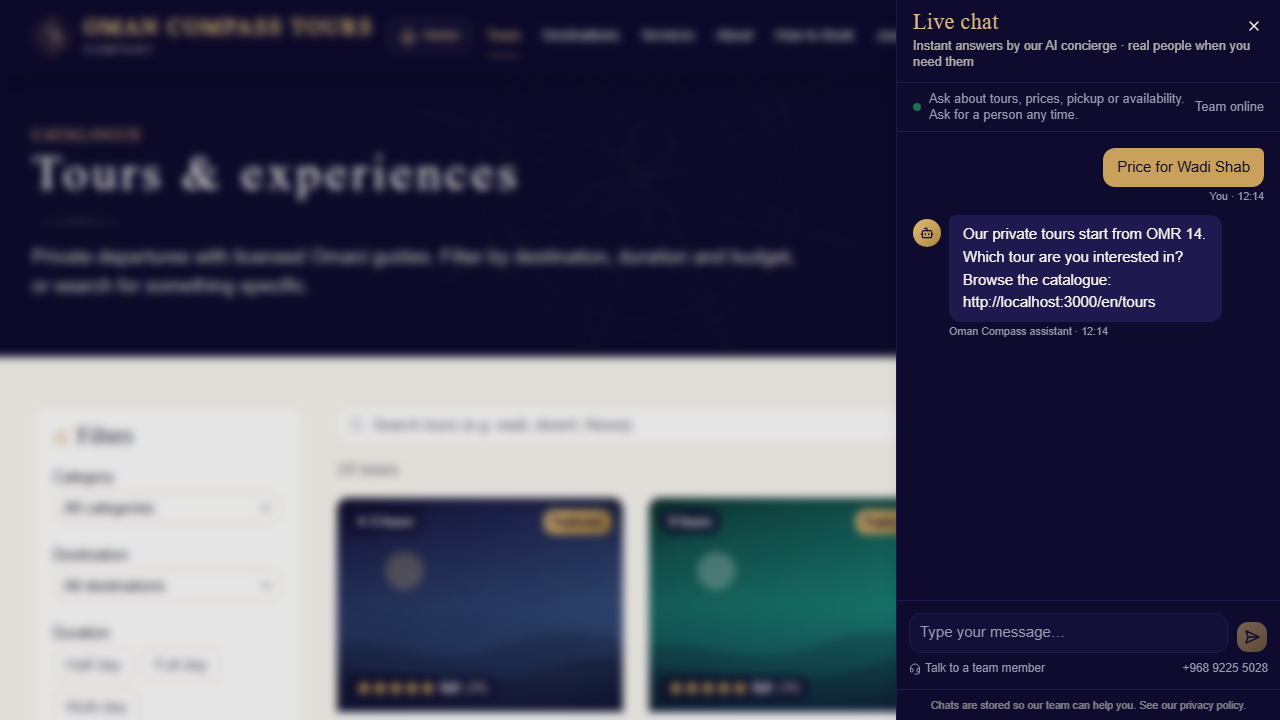
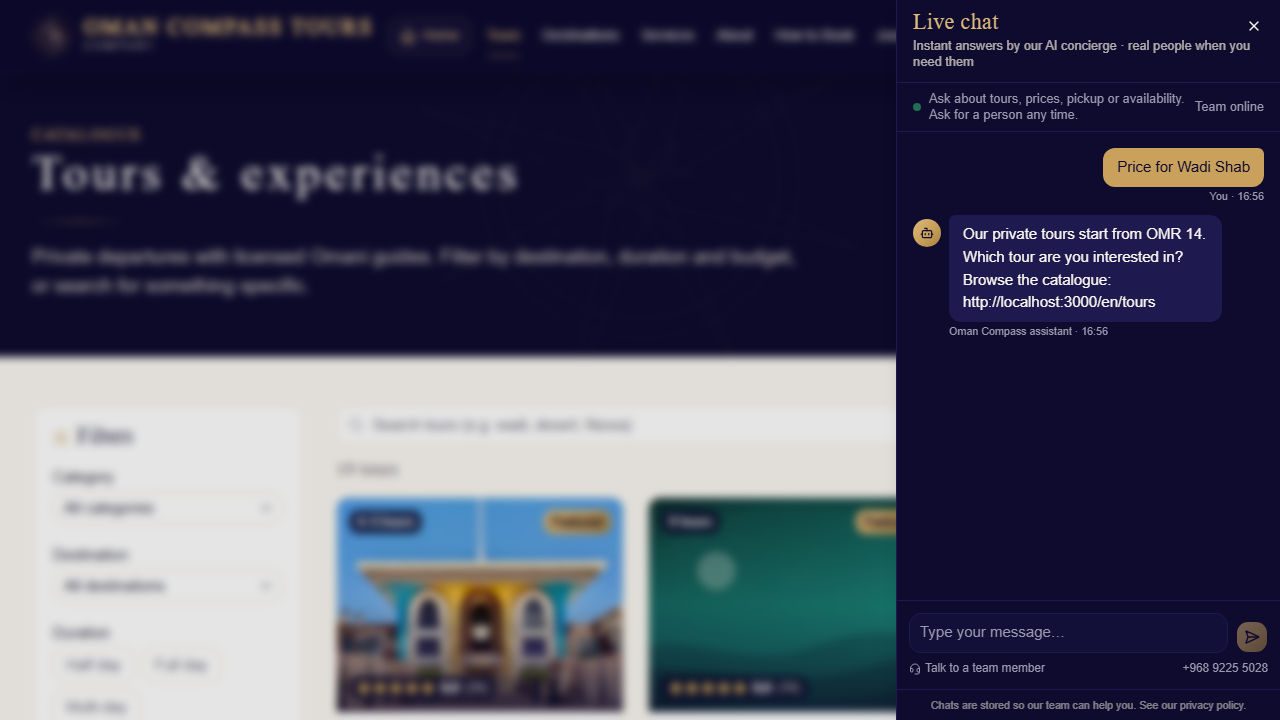
One-time 'website under construction' notice on home, tours and services (EN/AR, contact channels, admin switch in Settings → Company); tests pre-dismiss it

Changed region(s): [[0.25, 0.6722, 0.5, 1.0]]

diff --git a/src/components/site/preview-notice.tsx b/src/components/site/preview-notice.tsx
@@ -1,0 +1,83 @@
+"use client";
+
+import { useEffect, useState } from "react";
+import { useTranslations } from "next-intl";
+import { useQuery } from "convex/react";
+import { Construction, Mail, MessageCircle, Phone } from "lucide-react";
+import { api } from "../../../convex/_generated/api";
+import { Link, usePathname } from "@/i18n/navigation";
+import { site } from "@/lib/site";
+import { Button } from "@/components/ui/button";
+import { Dialog, DialogContent, DialogDescription, DialogHeader, DialogTitle } from "@/components/ui/dialog";
+
+const STORAGE_KEY = "oct_preview_notice_v1";
+/** Pages where a first-time visitor gets the notice (locale-less paths). */
+const ROUTES = new Set(["/", "/tours", "/services"]);
+
+export type PreviewNoticeSetting = { enabled: boolean } | null;
+
+/**
+ * One-time "site under construction" notice. Staff switch it off from
+ * Admin → Settings → Company once bookings open; visitors who dismissed it
+ * are remembered in localStorage.
+ */
+export function PreviewNotice() {
+  const t = useTranslations("previewNotice");
+  const pathname = usePathname();
+  const setting = useQuery(api.content.setting, { key: "site.previewNotice" }) as PreviewNoticeSetting | undefined;
+  const [open, setOpen] = useState(false);
+
+  const enabled = setting === undefined ? false : setting === null ? true : setting.enabled;
+
+  useEffect(() => {
+    if (!enabled || !ROUTES.has(pathname)) return;
+    let seen = false;
+    try {
+      seen = window.localStorage.getItem(STORAGE_KEY) === "1";
+    } catch {
+      /* private mode: show it, it simply will not be remembered */
+    }
+    if (!seen) setOpen(true);
+  }, [enabled, pathname]);
+
+  const dismiss = () => {
+    try {
+      window.localStorage.setItem(STORAGE_KEY, "1");
+    } catch {
+      /* ignore */
+    }
+    setOpen(false);
+  };
+
+  return (
+    <Dialog open={open} onOpenChange={(o) => (o ? setOpen(true) : dismiss())}>
+      <DialogContent className="sm:max-w-lg" data-testid="preview-notice">
+        <DialogHeader>
+          <div className="mx-auto mb-2 flex size-12 items-center justify-center rounded-full bg-gold-500/15 text-gold-700">
+            <Construction className="size-6" />
+          </div>
+          <DialogTitle className="text-center font-heading text-xl">{t("title")}</DialogTitle>
+          <DialogDescription className="text-center leading-relaxed">{t("body")}</DialogDescription>
+        </DialogHeader>
+        <p className="text-center text-sm text-muted-foreground">{t("contact")}</p>
+        <div className="grid gap-2 sm:grid-cols-3">
+          <Button asChild variant="outline" size="sm" className="border-[#25D366]/40">
+            <a href={site.whatsappUrl} target="_blank" rel="noopener noreferrer"><MessageCircle className="size-4 text-[#25D366]" /> WhatsApp</a>
+          </Button>
+          <Button asChild variant="outline" size="sm">
+            <a href={`tel:${site.phoneE164}`} dir="ltr"><Phone className="size-4" /> {site.phoneDisplay}</a>
+          </Button>
+          <Button asChild variant="outline" size="sm">
+            <a href={`mailto:${site.email}`}><Mail className="size-4" /> {t("email")}</a>
+          </Button>
+        </div>
+        <div className="mt-1 flex flex-col-reverse gap-2 sm:flex-row sm:justify-center">
+          <Button variant="ghost" onClick={dismiss}>{t("dismiss")}</Button>
+          <Button asChild className="bg-gold-gradient text-navy-950" onClick={dismiss}>
+            <Link href="/contact">{t("cta")}</Link>
+          </Button>
+        </div>
+      </DialogContent>
+    </Dialog>
+  );
+}

diff --git a/src/app/[locale]/admin/settings/page.tsx b/src/app/[locale]/admin/settings/page.tsx
@@ -36,6 +36,7 @@ function CompanyTab({ settings }: { settings: Record<string, unknown> }) {
   const setProfilePdf = useMutation(api.admin.settings.setProfilePdf);
   const [pdfBusy, setPdfBusy] = useState(false);
   const storedPdfUrl = typeof settings["company.profilePdfUrl"] === "string" ? (settings["company.profilePdfUrl"] as string) : "";
+  const previewNotice = (settings["site.previewNotice"] as { enabled: boolean } | undefined)?.enabled ?? true;
   async function uploadProfilePdf(file: File) {
     if (file.type !== "application/pdf") return toast.error(t("profileNotPdf"));
     if (file.size > 20 * 1024 * 1024) return toast.error(t("profileTooLarge"));
@@ -64,6 +65,13 @@ function CompanyTab({ settings }: { settings: Record<string, unknown> }) {
       </div>
       <Button size="sm" className="mt-4 bg-gold-gradient text-navy-950" onClick={async () => { await set({ key: "company.info", value: info }); await set({ key: "company.profilePdfUrl", value: info.profilePdfUrl }); toast.success(t("saved")); }}>{t("save")}</Button>
       <p className="mt-2 text-xs text-muted-foreground">{t("note")}</p>
+      <div className="mt-6 flex items-start justify-between gap-4 rounded-lg border border-warning/40 bg-warning/10 p-4">
+        <div>
+          <p className="font-medium text-foreground">{t("previewNoticeTitle")}</p>
+          <p className="mt-1 text-xs text-muted-foreground">{t("previewNoticeHint")}</p>
+        </div>
+        <Switch checked={previewNotice} aria-label={t("previewNoticeTitle")} onCheckedChange={async (on) => { await set({ key: "site.previewNotice", value: { enabled: on } }); toast.success(on ? t("previewNoticeOn") : t("previewNoticeOff")); }} />
+      </div>
       <div className="mt-6 rounded-lg border border-border bg-muted/30 p-4">
         <p className="font-medium text-foreground">{t("profileTitle")}</p>
         <p className="mt-1 text-xs text-muted-foreground">{t("profileHint")}</p>

diff --git a/src/app/[locale]/(site)/layout.tsx b/src/app/[locale]/(site)/layout.tsx
@@ -2,6 +2,7 @@ import { setRequestLocale } from "next-intl/server";
 import { SiteHeader } from "@/components/layout/site-header";
 import { SiteFooter } from "@/components/layout/site-footer";
 import { SupportFab } from "@/components/layout/support-fab";
+import { PreviewNotice } from "@/components/site/preview-notice";
 
 export default async function SiteLayout({
   children,
@@ -26,6 +27,7 @@ export default async function SiteLayout({
       </main>
       <SiteFooter />
       <SupportFab />
+      <PreviewNotice />
     </>
   );
 }

diff --git a/tests/chat.spec.ts b/tests/chat.spec.ts
@@ -4,6 +4,7 @@ import { HIDE_DEV_OVERLAY } from "./fixtures";
 test.describe("Live chat & consent", () => {
   test.beforeEach(async ({ context }) => {
     await context.addInitScript(HIDE_DEV_OVERLAY);
+    await context.addInitScript(() => { try { window.localStorage.setItem("oct_preview_notice_v1", "1"); } catch { /* ignore */ } });
   });
 
   test("cookie banner: essential-only choice is remembered", async ({ page }) => {

diff --git a/tests/fixtures.ts b/tests/fixtures.ts
@@ -13,6 +13,7 @@ export const test = base.extend({
     await context.addInitScript(() => {
       try {
         window.localStorage.setItem("oct_consent", JSON.stringify({ v: 1, analytics: false, marketing: false, at: Date.now() }));
+        window.localStorage.setItem("oct_preview_notice_v1", "1"); // "site under construction" notice already dismissed
       } catch {
         /* ignore */
       }
